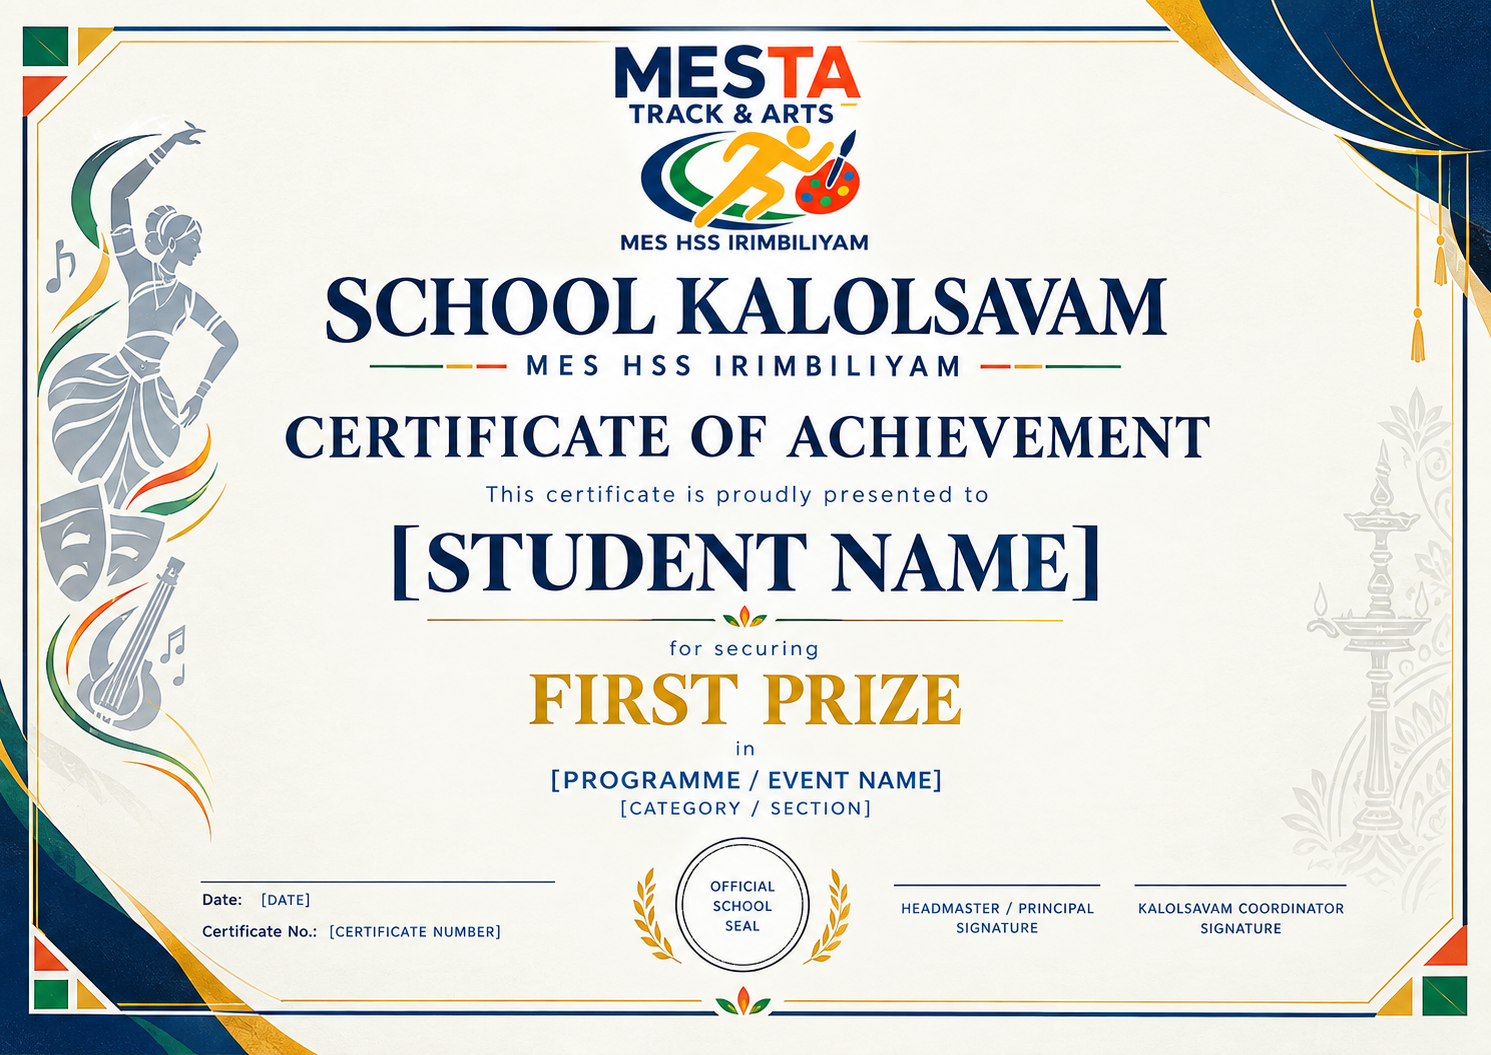
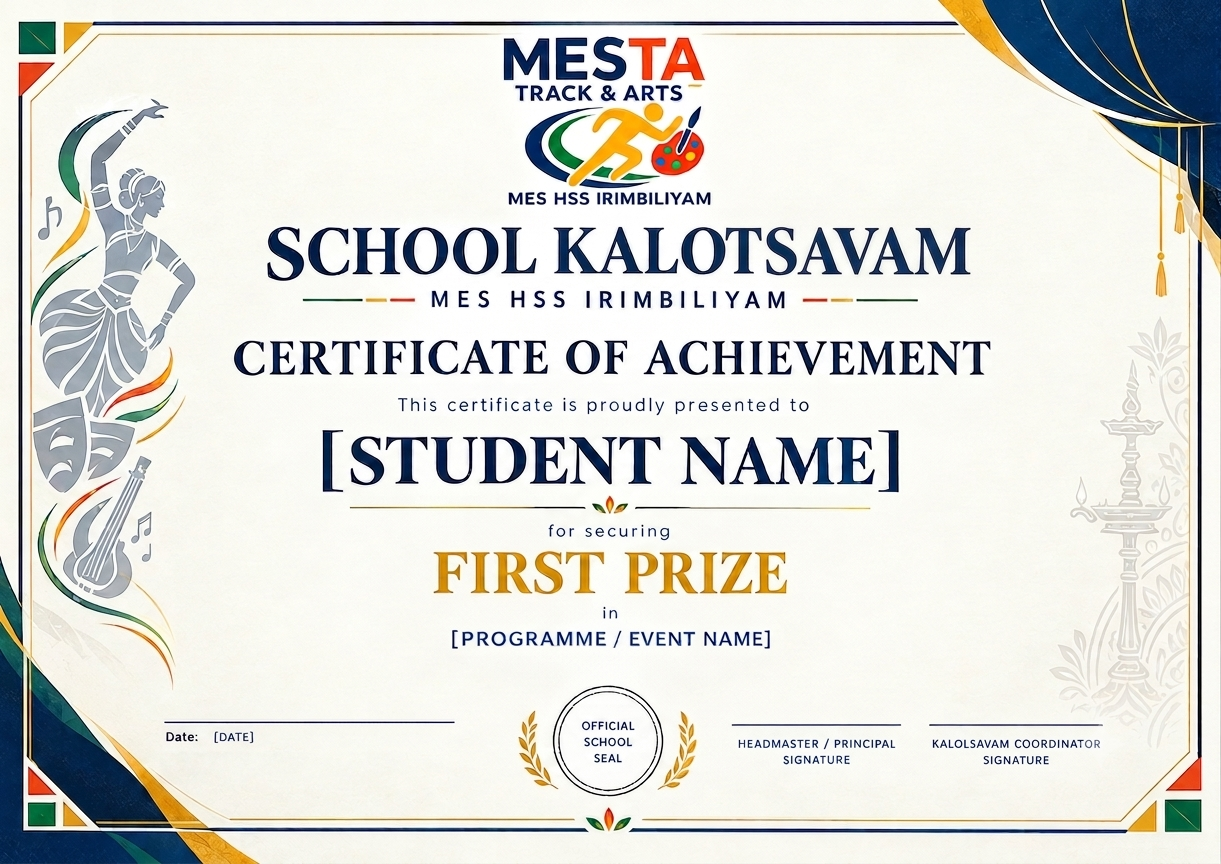
feat(certificates): match the updated School Kalolsavam template
Replace artwork (1221×864). New layout has name, prize, a single programme line,
and date only — no category row or certificate number. Category is folded into
the programme line so published results still fill the certificate.

diff --git a/src/components/public/certificate-sheet.tsx b/src/components/public/certificate-sheet.tsx
@@ -2,18 +2,17 @@ import {
   CERTIFICATE_ASPECT,
   CERTIFICATE_TEMPLATE,
   formatCertificateDate,
-  formatCertificateNumber,
+  formatProgrammeLine,
   rankPrizeDisplay,
 } from "@/lib/certificates";
 import type { Locale } from "@/lib/types";
 import { cn } from "@/lib/utils";
 
 export type CertificateSheetProps = {
-  entryId: string;
   participantName: string;
   rank: number;
   programme: string;
-  category: string;
+  category?: string | null;
   publishedAt: string | null;
   locale: Locale;
   className?: string;
@@ -21,7 +20,7 @@ export type CertificateSheetProps = {
 
 function Field({
   top,
-  width = "78%",
+  width = "72%",
   height = "7.2%",
   className,
   children,
@@ -35,7 +34,7 @@ function Field({
   return (
     <div
       className={cn(
-        "absolute left-1/2 flex -translate-x-1/2 items-center justify-center bg-[#f8f4e8] px-2 text-center",
+        "absolute left-1/2 flex -translate-x-1/2 items-center justify-center bg-[#fbf8ef] px-2 text-center",
         className,
       )}
       style={{ top, width, height }}
@@ -46,11 +45,10 @@ function Field({
 }
 
 /**
- * Official MESTA certificate — template artwork with dynamic text overlaid
- * on cream bands that cover the baked-in placeholders.
+ * Official MESTA certificate — latest School Kalolsavam artwork
+ * (name, prize, programme line, date). Category rides on the programme line.
  */
 export function CertificateSheet({
-  entryId,
   participantName,
   rank,
   programme,
@@ -60,8 +58,8 @@ export function CertificateSheet({
   className,
 }: CertificateSheetProps) {
   const prize = rankPrizeDisplay(rank);
-  const certNo = formatCertificateNumber(entryId, publishedAt);
   const date = formatCertificateDate(publishedAt, locale);
+  const programmeLine = formatProgrammeLine(programme, category);
 
   return (
     <div
@@ -77,34 +75,37 @@ export function CertificateSheet({
       />
 
       <div className="certificate-overlay absolute inset-0 text-[#1a3352]">
-        <Field top="37.8%" height="8.4%" className="certificate-student font-display font-black leading-tight">
+        {/* [STUDENT NAME] */}
+        <Field top="42.2%" height="8.6%" width="70%" className="certificate-student font-display font-black leading-tight">
           {participantName}
         </Field>
+
+        {/* FIRST / SECOND / THIRD PRIZE */}
         <Field
-          top="48.6%"
-          height="7.6%"
+          top="55.4%"
+          height="8.4%"
+          width="62%"
           className="certificate-prize font-display font-black uppercase tracking-wide"
         >
-          <span style={{ color: "#b8891f" }}>{prize}</span>
-        </Field>
-        <Field top="56.2%" height="6.4%" width="82%" className="certificate-programme font-display font-black leading-snug">
-          {programme}
-        </Field>
-        <Field top="61.8%" height="5.2%" width="70%" className="certificate-category font-bold uppercase tracking-wide">
-          {category}
+          <span style={{ color: "#c4a027" }}>{prize}</span>
         </Field>
 
+        {/* [PROGRAMME / EVENT NAME] */}
+        <Field
+          top="67.6%"
+          height="6.4%"
+          width="68%"
+          className="certificate-programme font-display font-black leading-snug"
+        >
+          {programmeLine}
+        </Field>
+
+        {/* [DATE] after the printed Date: label */}
         <div
-          className="certificate-date absolute flex items-center bg-[#f8f4e8] px-1 font-semibold tabular"
-          style={{ left: "16.5%", bottom: "11.2%", width: "22%", height: "3.6%" }}
+          className="certificate-date absolute flex items-center bg-[#fbf8ef] px-1 font-semibold tabular"
+          style={{ left: "13.2%", bottom: "12.4%", width: "18%", height: "3.8%" }}
         >
           {date}
-        </div>
-        <div
-          className="certificate-number absolute flex items-center bg-[#f8f4e8] px-1 font-semibold tabular"
-          style={{ left: "22%", bottom: "5.6%", width: "24%", height: "3.4%" }}
-        >
-          {certNo}
         </div>
       </div>
     </div>

diff --git a/src/domains/certificates/build-certificate-pdf.ts b/src/domains/certificates/build-certificate-pdf.ts
@@ -2,32 +2,31 @@ import { readFile } from "fs/promises";
 import path from "path";
 import { PDFDocument, StandardFonts, rgb } from "pdf-lib";
 import {
+  CERTIFICATE_DESIGN_H,
+  CERTIFICATE_DESIGN_W,
   formatCertificateDate,
-  formatCertificateNumber,
+  formatProgrammeLine,
   rankPrizeDisplay,
 } from "@/lib/certificates";
-import type { Locale } from "@/lib/types";
 
 export type CertificatePdfInput = {
-  entryId: string;
-  locale: Locale;
   participantName: string;
   programme: string;
-  category: string;
+  category?: string | null;
   rank: number;
   publishedAt: string | null;
 };
 
-const DESIGN_W = 1491;
-const DESIGN_H = 1055;
+const DESIGN_W = CERTIFICATE_DESIGN_W;
+const DESIGN_H = CERTIFICATE_DESIGN_H;
 const PAGE_W = 842;
 const PAGE_H = 595;
 const SX = PAGE_W / DESIGN_W;
 const SY = PAGE_H / DESIGN_H;
 
-const CREAM = rgb(0.973, 0.957, 0.91);
+const CREAM = rgb(0.984, 0.973, 0.937);
 const NAVY = rgb(0.1, 0.2, 0.32);
-const GOLD = rgb(0.72, 0.54, 0.12);
+const GOLD = rgb(0.77, 0.63, 0.15);
 
 function coverBand(
   page: ReturnType<PDFDocument["addPage"]>,
@@ -96,7 +95,7 @@ function drawLeft(
   });
 }
 
-/** Landscape A4 PDF with the official template image and dynamic text overlays. */
+/** Landscape A4 PDF with the current official template and dynamic text overlays. */
 export async function buildCertificatePdf(input: CertificatePdfInput): Promise<Uint8Array> {
   const templatePath = path.join(process.cwd(), "public/images/certificate-template.png");
   const templateBytes = await readFile(templatePath);
@@ -110,23 +109,22 @@ export async function buildCertificatePdf(input: CertificatePdfInput): Promise<U
   const serif = await pdfDoc.embedFont(StandardFonts.TimesRoman);
 
   const prize = rankPrizeDisplay(input.rank);
-  const certNo = formatCertificateNumber(input.entryId, input.publishedAt);
   const date = formatCertificateDate(input.publishedAt, "en");
-  const name = pdfSafe(input.participantName).trim() || input.participantName.replace(/[^\w\s.-]/g, "").trim();
+  const programmeLine = formatProgrammeLine(input.programme, input.category);
+  const name =
+    pdfSafe(input.participantName).trim() ||
+    input.participantName.replace(/[^\w\s.-]/g, "").trim();
 
-  coverBand(page, 220, 360, 1050, 90);
-  coverBand(page, 280, 480, 930, 80);
-  coverBand(page, 260, 560, 970, 70);
-  coverBand(page, 360, 630, 770, 55);
-  coverBand(page, 230, 910, 340, 40);
-  coverBand(page, 300, 965, 360, 36);
+  // Cover baked-in placeholders on the new 1221×864 artwork
+  coverBand(page, 210, 360, 800, 78);
+  coverBand(page, 280, 470, 660, 78);
+  coverBand(page, 250, 575, 720, 58);
+  coverBand(page, 155, 740, 230, 34);
 
-  drawCentered(page, name || "Winner", DESIGN_W / 2, 418, 42, serifBold, NAVY);
-  drawCentered(page, prize, DESIGN_W / 2, 525, 34, serifBold, GOLD);
-  drawCentered(page, input.programme, DESIGN_W / 2, 600, 28, serifBold, NAVY);
-  drawCentered(page, input.category, DESIGN_W / 2, 660, 20, serifBold, NAVY);
-  drawLeft(page, date, 250, 935, 16, serif, NAVY);
-  drawLeft(page, certNo, 330, 990, 14, serif, NAVY);
+  drawCentered(page, name || "Winner", DESIGN_W / 2, 400, 36, serifBold, NAVY);
+  drawCentered(page, prize, DESIGN_W / 2, 510, 32, serifBold, GOLD);
+  drawCentered(page, programmeLine, DESIGN_W / 2, 608, 22, serifBold, NAVY);
+  drawLeft(page, date, 162, 758, 14, serif, NAVY);
 
   return pdfDoc.save();
 }

diff --git a/src/lib/certificates.ts b/src/lib/certificates.ts
@@ -28,8 +28,19 @@ export function formatCertificateDate(publishedAt: string | null, locale: Locale
   return d.toLocaleDateString("en-IN", { day: "numeric", month: "long", year: "numeric" });
 }
 
+/** Single programme line on the new template (category is no longer its own field). */
+export function formatProgrammeLine(programme: string, category?: string | null): string {
+  const p = programme.trim();
+  const c = category?.trim();
+  if (p && c && p.toLowerCase() !== c.toLowerCase()) return `${p}  ·  ${c}`;
+  return p || c || "";
+}
+
 export const CERTIFICATE_TEMPLATE = "/images/certificate-template.png";
-export const CERTIFICATE_ASPECT = 1491 / 1055;
+/** New official artwork: 1221 × 864 */
+export const CERTIFICATE_DESIGN_W = 1221;
+export const CERTIFICATE_DESIGN_H = 864;
+export const CERTIFICATE_ASPECT = CERTIFICATE_DESIGN_W / CERTIFICATE_DESIGN_H;
 
 export function rankPrizeLabel(locale: Locale, rank: number): string {
   if (locale === "ml") {

diff --git a/src/app/globals.css b/src/app/globals.css
@@ -1113,15 +1113,10 @@ html[lang="ml"] .certificate-overlay {
 }
 
 .certificate-programme {
-  font-size: clamp(0.85rem, 3.6cqi, 1.55rem);
+  font-size: clamp(0.85rem, 3.4cqi, 1.45rem);
 }
 
-.certificate-category {
-  font-size: clamp(0.7rem, 2.5cqi, 1.1rem);
-}
-
-.certificate-date,
-.certificate-number {
+.certificate-date {
   font-size: clamp(0.55rem, 1.85cqi, 0.85rem);
 }
 

diff --git a/src/app/documents/certificates/[entryId]/route.ts b/src/app/documents/certificates/[entryId]/route.ts
@@ -20,8 +20,6 @@ export async function GET(
   }
 
   const bytes = await buildCertificatePdf({
-    entryId: block.entry.id,
-    locale: "en",
     participantName: block.entry.participant_name,
     programme: tName("en", block.event.programme),
     category: tName("en", block.event.category),

diff --git a/src/app/(public)/certificates/[entryId]/page.tsx b/src/app/(public)/certificates/[entryId]/page.tsx
@@ -34,7 +34,6 @@ export default async function CertificatePage({
       </p>
 
       <CertificateSheet
-        entryId={entry.id}
         participantName={participantName}
         rank={rank}
         programme={tName(locale, event.programme)}
